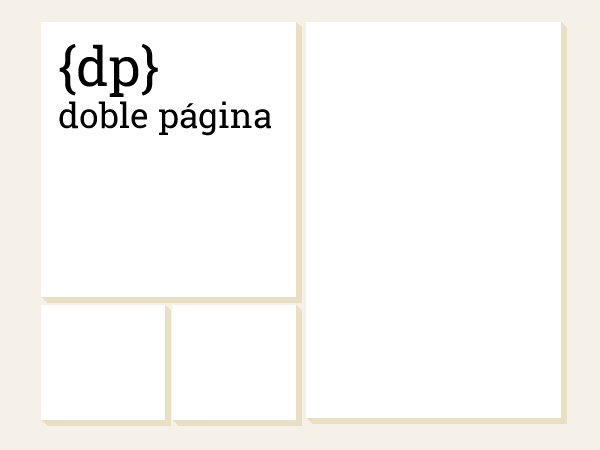
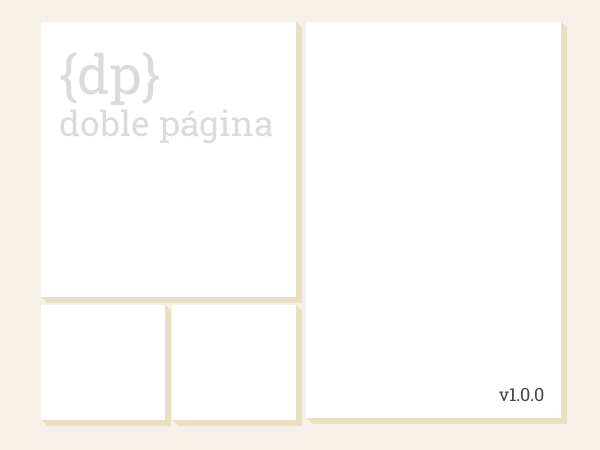
update version number

Changed region(s): [[0.09, 0.0933, 0.45, 0.3422], [0.84, 0.84, 0.9, 0.9022]]

diff --git a/style.css b/style.css
@@ -1,7 +1,7 @@
  /*
 Theme Name:		'Doble Página'
 Theme URI:		http://hspencer.info/about/dp
-Version:		0.0.1a;
+Version:		1.0.0;
 Author:			Herbert Spencer
 Author URI:		http://hspencer.info/
 Description:	Booklike readingeske experience, this is a double page spread, two pages facing each other. On the left side you have te general topic map, the links, the territory. On the right side, you have the detail, the voyage, the temporal flow of discourse.
